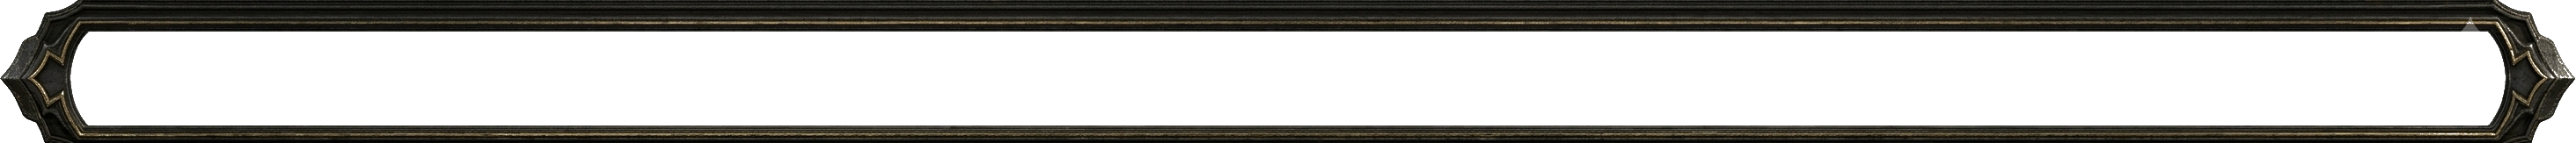
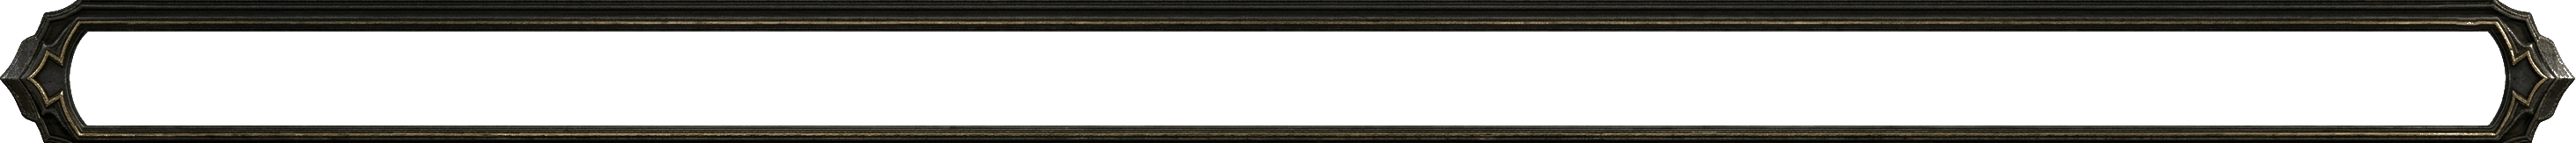
@

Changed region(s): [[0.0, 0.184, 0.0311, 0.9202], [0.9327, 0.1227, 0.9638, 0.2147]]

diff --git a/Src/Object/Common/EffectController.cpp b/Src/Object/Common/EffectController.cpp
@@ -132,16 +132,28 @@ void EffectController::Draw(int type, const VECTOR pos)
 
 void EffectController::SetEffectScl(int type, VECTOR scale)
 {
+	auto it = effects_.find(type);
+	if (it == effects_.end()) {
+		return;
+	}
 	SetScalePlayingEffekseer3DEffect(effects_[type]->PlayId_, scale.x, scale.y, scale.z);
 }
 
 void EffectController::SetEffectPos(int type, VECTOR pos)
 {
+	auto it = effects_.find(type);
+	if (it == effects_.end()) {
+		return;
+	}
 	SetPosPlayingEffekseer3DEffect(effects_[type]->PlayId_, pos.x, pos.y, pos.z);
 }
 
 void EffectController::SetEffectRot(int type, VECTOR rot)
 {
+	auto it = effects_.find(type);
+	if (it == effects_.end()) {
+		return;
+	}
 	SetRotationPlayingEffekseer3DEffect(effects_[type]->PlayId_, rot.x, rot.y, rot.z);
 }
 

diff --git a/Src/Manager/ResourceManager.h b/Src/Manager/ResourceManager.h
@@ -41,11 +41,11 @@ public:
 		L_FONT,
 
 		TITLE_SELECT,
-		HP,
+		HP_1,
+		HP_2,
 
 		UI_BOX,
 		UI_RECOVERY_BOTTLE,
-
 		SE_1,
 		SE_2,
 		SE_3,

diff --git a/Src/Object/Actor/UI/UIRecovery.cpp b/Src/Object/Actor/UI/UIRecovery.cpp
@@ -46,8 +46,8 @@ void UIRecovery::InitLoad(void)
 	resMng_.Load(ResourceManager::SRC::FONT);
 	titleFont_ = FontManager::GetInstance().CreateMyFont(L"KazukiReiwa", 50, 50);
 
-	imgBox_ = resMng_.Load(ResourceManager::SRC::UI_BOX).handleId_;;
-	imgBottle_ = resMng_.Load(ResourceManager::SRC::UI_RECOVERY_BOTTLE).handleId_;;
+	imgBox_ = resMng_.Load(ResourceManager::SRC::UI_BOX).handleId_;
+	imgBottle_ = resMng_.Load(ResourceManager::SRC::UI_RECOVERY_BOTTLE).handleId_;
 }
 
 void UIRecovery::InitTransform(void)

diff --git a/Src/Manager/InputManager.cpp b/Src/Manager/InputManager.cpp
@@ -43,6 +43,7 @@ void InputManager::Init(void)
 	InputManager::GetInstance().Add(KEY_INPUT_D);
 	InputManager::GetInstance().Add(KEY_INPUT_L);
 	InputManager::GetInstance().Add(KEY_INPUT_R);
+	InputManager::GetInstance().Add(KEY_INPUT_1);
 
 	InputManager::GetInstance().Add(KEY_INPUT_RSHIFT);
 	InputManager::GetInstance().Add(KEY_INPUT_LSHIFT);